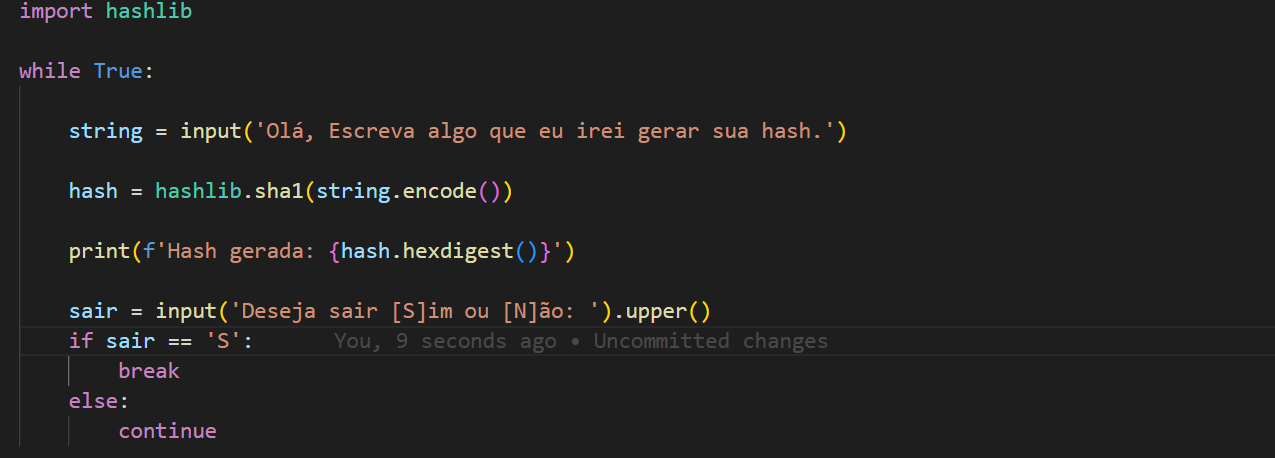
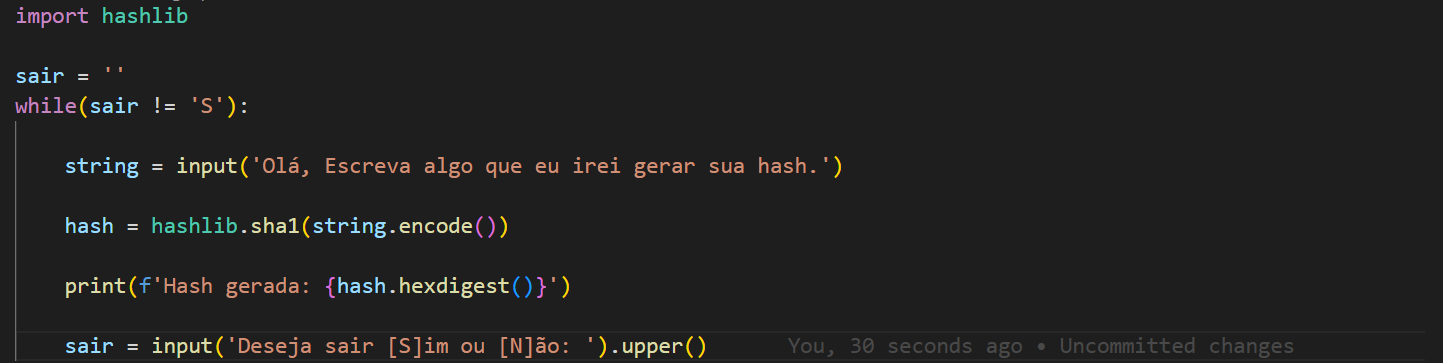
mudanças no codigo

diff --git a/Sprint4/desafio/desafio04_2/app.py b/Sprint4/desafio/desafio04_2/app.py
@@ -1,6 +1,7 @@
 import hashlib
 
-while True:
+sair = ''
+while(sair != 'S'):
 
     string = input('Olá, Escreva algo que eu irei gerar sua hash.')
 
@@ -9,7 +10,3 @@ while True:
     print(f'Hash gerada: {hash.hexdigest()}')
 
     sair = input('Deseja sair [S]im ou [N]ão: ').upper()
-    if sair == 'S':
-        break
-    else:
-        continue

diff --git a/Sprint4/desafio/README.md b/Sprint4/desafio/README.md
@@ -41,7 +41,7 @@ Aqui você encontrará o passo a passo de como solucionei o desafio do Sprint 4.
 
 ![](/Sprint4/evidencias/script_hash.png)
 
-#### Para criar uma hash a partir de uma string recebida por um input, precisei primeiro importar a biblioteca *hashlib*. Após isso, coloquei a variável *string* para guardar o que recebesse do input. Para gerar o hash, eu utilizei o algoritmo *sha1*, para encriptar utilizei o *encode()* na variável string. Para finalizar, eu utilizei o *hexdigest* para imprimir o resultado. Como o desafio pedia que retornasse ao passo 1 - começo do código - utilizei a estrutura While para sair somente quando o usuário quisesse. Para saber do desejo do usuário criei outro input onde pergunto se ele deseja sair ou continuar. Com a estrutura if e else eu controlo a saída ou não utilizando *break* caso ele indique que queira sair e *continue* caso ele queira continuar.
+#### Para criar uma hash a partir de uma string recebida por um input, precisei primeiro importar a biblioteca *hashlib*. Após isso, coloquei a variável *string* para guardar o que recebesse do input. Para gerar o hash, eu utilizei o algoritmo *sha1*, para encriptar utilizei o *encode()* na variável string. Para finalizar, eu utilizei o *hexdigest* para imprimir o resultado. Como o desafio pedia que retornasse ao passo 1 - começo do código - utilizei a estrutura While para sair somente quando o usuário quisesse. Para saber do desejo do usuário criei outro input onde pergunto se ele deseja sair ou continuar. 
 
 #### Após criar o script, era preciso criar o arquivo *Dockerfile*, igual fiz na etapa 1.
 
